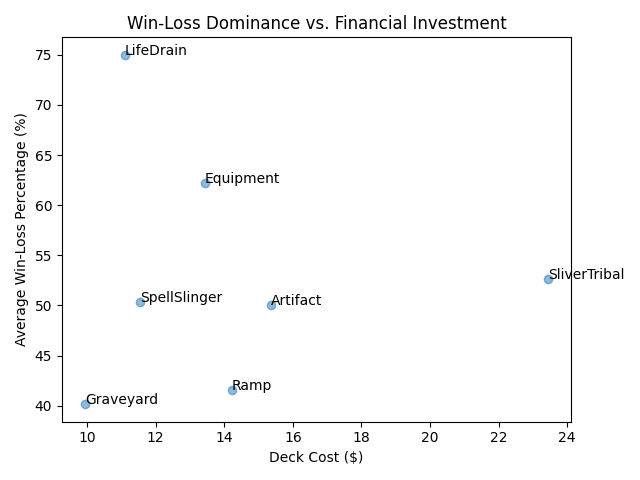
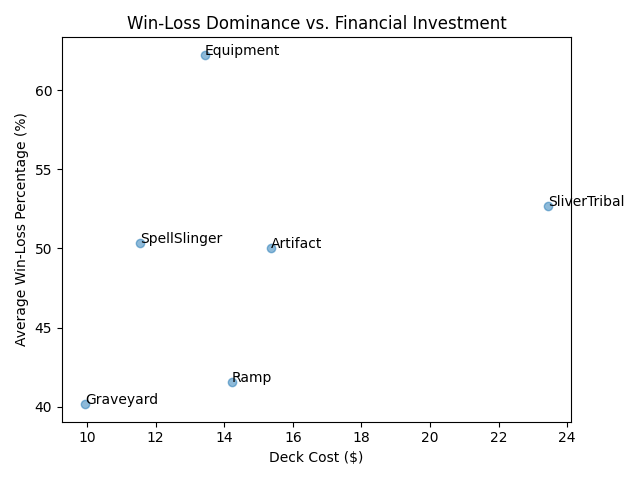
fix bug of not using min eval count

diff --git a/duelstats/core/calculations.py b/duelstats/core/calculations.py
@@ -5,9 +5,10 @@ from duelstats.core.duelstats import DuelStats
 
 
 class DSCalc(DuelStats):
-    def __init__(self, duel_stats_instance, min_matchup_threshold: int):
+    def __init__(self, duel_stats_instance, min_matchup_threshold: int, min_evaluation_threshold: int):
         self.ds = duel_stats_instance
         self.min_matchup_threshold = min_matchup_threshold
+        self.min_evaluation_threshold = min_evaluation_threshold
 
     def run(self):
         self.total_played_duels()
@@ -66,7 +67,9 @@ class DSCalc(DuelStats):
             row = win_loss_percentages[idx, :]
             # Check if the row is not entirely NaN to avoid RuntimeWarning.
 
-            if not np.all(np.isnan(row)):
+            # At least min_evaluation_threshold specific matchups have been calculated 
+            # before global win/loss is calculated.
+            if np.sum(~np.isnan(row)) >= self.min_evaluation_threshold:
                 win_loss_means[idx] = np.nanmean(row)
             else:
                 win_loss_means[idx] = np.nan

diff --git a/duelstats/main.py b/duelstats/main.py
@@ -27,12 +27,12 @@ def main():
 
     duel_stats_instance = DuelStats.load_duel_data(args.csv_file)
 
-    duel_stats_calculations = DSCalc(duel_stats_instance, args.min_matchup_threshold)
+    duel_stats_calculations = DSCalc(duel_stats_instance, args.min_matchup_threshold, args.min_evaluation_threshold)
     duel_stats_calculations.run()
 
 
     plot = DSPlot(duel_stats_instance, cmap=args.cmap, output_name=output_name)
-    plot.stats_with_win_loss_summary(min_evaluation_threshold=args.min_evaluation_threshold)
+    plot.stats_with_win_loss_summary()
     plot.raw_stats()
     plot.deck_to_deck_duel_count()
     plot.single_deck_duel_count()

diff --git a/duelstats/core/plots.py b/duelstats/core/plots.py
@@ -47,7 +47,7 @@ class DSPlot(DuelStats):
         plt.tight_layout()
         plt.savefig(f"results/{self.output_name}/raw_data_visualization.png", dpi=300)
 
-    def stats_with_win_loss_summary(self, min_evaluation_threshold: int) -> None:
+    def stats_with_win_loss_summary(self) -> None:
 
         # Normalize color scale based on actual data range
         valid_data = self.ds.win_loss_data[self.ds.win_loss_data != -1]
